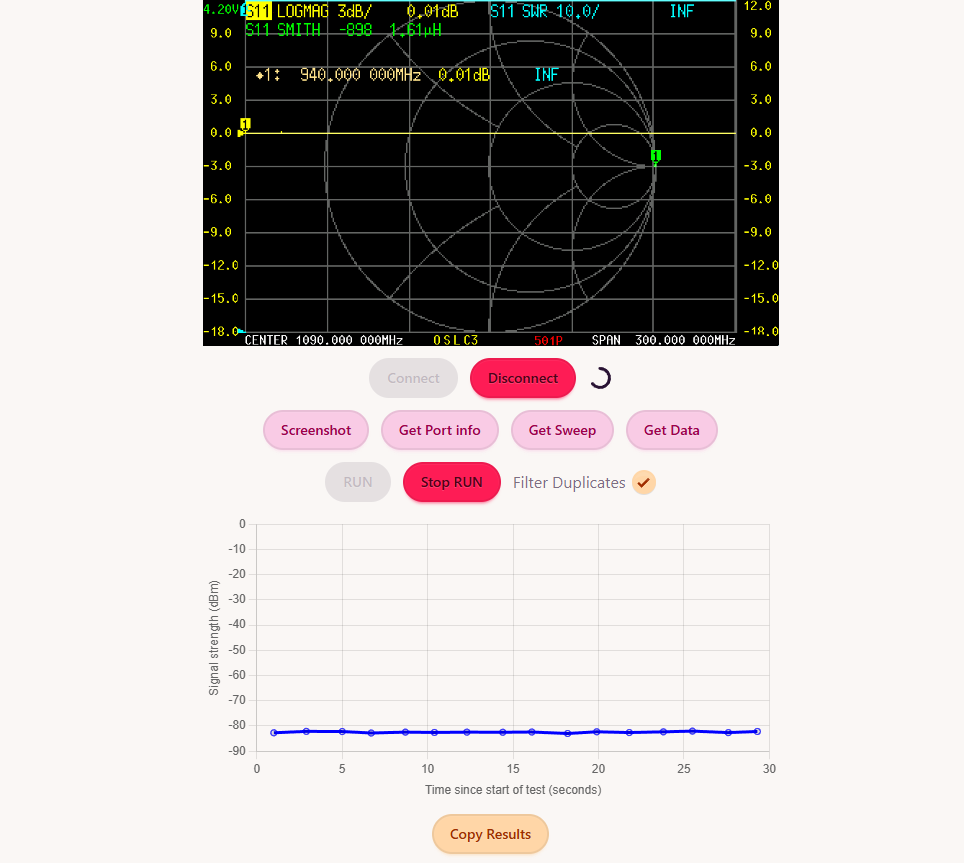
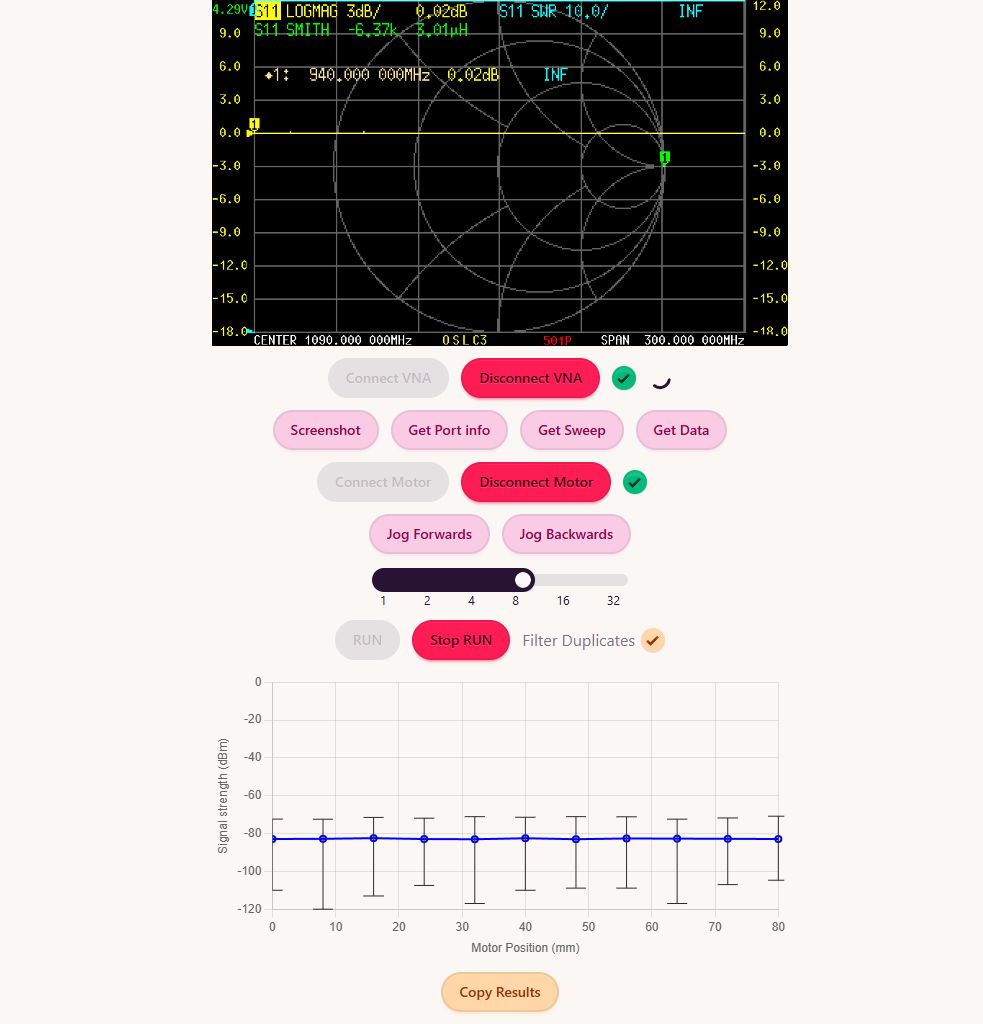
updated screenshot

diff --git a/README.md b/README.md
@@ -3,3 +3,5 @@
 ![alt text](screenshot.png)
 
 Connects to a portable Vector Network Analyser with the WebSerialAPI. The `Run` button starts recording the average of the S21 parameter and plots it on the graph. The `Copy Results` button copies the data as TSV so that it can be pasted into Excel/Sheets.
+
+It's designed for moving an defect down a Gas Insulated Line and recording the magnitude of the standing wave. The motor moves the defect, then the VNA records the standing wave amplitude, then the cycle repeats.
